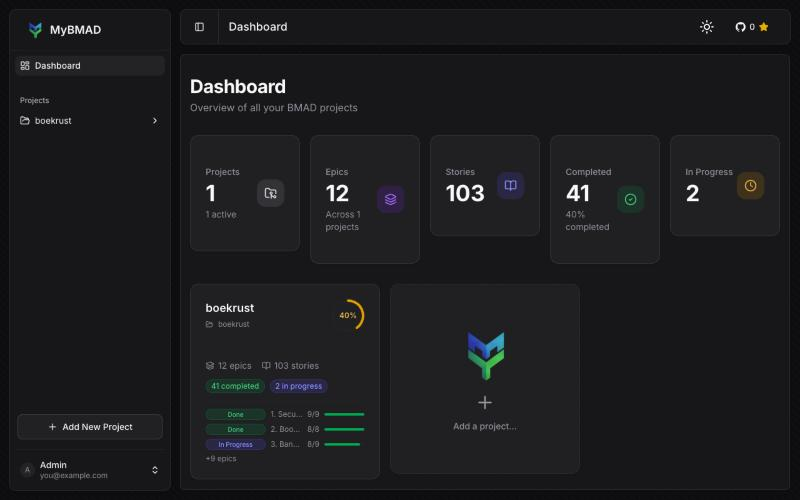
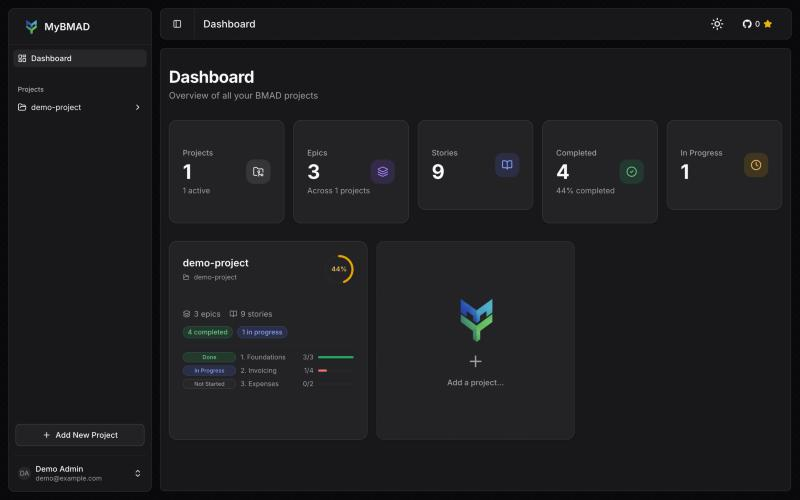
chore: release 0.2.0 and refresh docs and screenshots
- Bump version to 0.2.0 and add the changelog entry since 0.1.0
- Point repository links and the stars button to jsprhzn/my-bmad
- Refresh the agents, stories and dashboard screenshots and add
  the documentation screenshots to the README
- Update the getting started guide and contribution docs

diff --git a/src/components/layout/app-header.tsx b/src/components/layout/app-header.tsx
@@ -87,11 +87,11 @@ export function AppHeader() {
       </nav>
       <AnimatedThemeToggler className="ml-auto rounded-full p-2 hover:bg-accent shrink-0" />
       <GitHubStarsButton
-        username="Huzen-Software"
+        username="jsprhzn"
         repo="my-bmad"
         variant="ghost"
         size="sm"
-        onClick={() => window.open("https://github.com/Huzen-Software/my-bmad", "_blank", "noopener,noreferrer")}
+        onClick={() => window.open("https://github.com/jsprhzn/my-bmad", "_blank", "noopener,noreferrer")}
       />
       <ScrollProgress />
     </header>

diff --git a/CHANGELOG.md b/CHANGELOG.md
@@ -9,8 +9,56 @@ Versions follow [Semantic Versioning](https://semver.org/spec/v2.0.0.html).
 
 ## [Unreleased]
 
+---
+
+## [0.2.0] — 2026-10-30
+
 ### Added
-- Open-source release preparation (LICENSE, CONTRIBUTING, SECURITY, README)
+- Autorunner
+  - Project-wide autorunner that works through the story queue, with a one-at-a-time setting
+  - Queue above the stories board, showing each queued story's stages, models and log tail
+  - Choose the Claude account per project
+  - Pace autorunner starts by the plan quota that Claude reports
+  - Keep the computer awake while the autorunner runs
+  - Compact panel with Pause all, Stop after current and Stop now
+  - List of finished autoruns with start, end, duration, tokens and cost
+  - Optionally split large stories into subtasks
+  - Retry failed builds first and explain the autorunner's choices
+- Agent runs
+  - Start dev and review runs per story with Claude Code, and plan stories up to ready-for-dev
+  - Choose the skill or BMAD agent and the model per action
+  - Offer only the actions that fit a story's status
+  - Run cards with start, duration, model and cost, with pause and stop per run
+  - Run context sheet with story artifacts and diffs
+  - Changed files and readable diffs per run
+  - Time-stamped run stream with a status dot per log line, and a full log dialog
+  - Session and week limits shown at the top right of the agents page
+  - Refuse to start a story whose spec is split into subtasks
+- Stories
+  - Stories board, table and sidebar with agent views
+  - Recommended model per story
+  - Subtasks nested under their parent, with a done count
+  - Show the stories that wait on each story
+- Documentation
+  - Documentation tab with open-as-HTML buttons for specs
+  - `.html` files render as pages in the library
+  - Linked markdown specs open inside the app
+- Kanban board view for epics with a side panel
+- Support for alphanumeric epic IDs, chunked epic directories and BMAD V1 layouts
+- Admin metrics and error logging
+
+### Changed
+- Interface translated to English (login, errors, labels, run messages and documentation page)
+- Prisma migrations run automatically when the container starts
+- User roles are enforced at database level
+- Admin panel access is set by `SUPER_ADMIN_EMAIL`
+- Dashboard shows split stories as split, without run actions
+- Loading states are announced to assistive technology
+
+### Fixed
+- Authorization and input hardening
+- Block new GitHub OAuth accounts when registration is closed
+- Cache revalidation route hardening and ordering
 
 ---
 
@@ -34,5 +82,6 @@ Initial public release.
 
 ---
 
-[Unreleased]: https://github.com/Huzen-Software/my-bmad/compare/v0.1.0...HEAD
-[0.1.0]: https://github.com/Huzen-Software/my-bmad/releases/tag/v0.1.0
+[Unreleased]: https://github.com/jsprhzn/my-bmad/compare/v0.2.0...HEAD
+[0.2.0]: https://github.com/jsprhzn/my-bmad/compare/v0.1.0...v0.2.0
+[0.1.0]: https://github.com/jsprhzn/my-bmad/releases/tag/v0.1.0

diff --git a/README.md b/README.md
@@ -66,6 +66,10 @@ story, and let an autorunner work through the backlog. The screenshots below are
 
 ![Dashboard with progress per epic](docs/fork-dashboard-dark.jpg)
 
+![Documentation index per epic](docs/documentation-overview-dark.jpg)
+
+![Documentation specs grouped by epic](docs/documentation-specs-dark.jpg)
+
 ---
 
 <img width="1720" alt="Screenshot 1" src="./docs/screen1.png" />
@@ -98,7 +102,7 @@ story, and let an autorunner work through the backlog. The screenshots below are
 > Full guide with all environment variables explained: **[docs/GETTING_STARTED.md](./docs/GETTING_STARTED.md)**
 
 ```bash
-git clone https://github.com/Huzen-Software/my-bmad.git
+git clone https://github.com/jsprhzn/my-bmad.git
 cd my-bmad
 pnpm install
 

diff --git a/SECURITY.md b/SECURITY.md
@@ -19,7 +19,7 @@ If you discover a security vulnerability, please report it responsibly:
 
 ### Option 1 — GitHub Security Advisories (Preferred)
 
-Use [GitHub's private vulnerability reporting](https://github.com/Huzen-Software/my-bmad/security/advisories/new) to report the issue confidentially.
+Use [GitHub's private vulnerability reporting](https://github.com/jsprhzn/my-bmad/security/advisories/new) to report the issue confidentially.
 
 ### Option 2 — Direct Contact
 

diff --git a/CONTRIBUTING.md b/CONTRIBUTING.md
@@ -24,7 +24,7 @@ This project follows a [Code of Conduct](./CODE_OF_CONDUCT.md). By participating
 
 ## How to Report a Bug
 
-1. Check the [existing issues](https://github.com/Huzen-Software/my-bmad/issues) to avoid duplicates
+1. Check the [existing issues](https://github.com/jsprhzn/my-bmad/issues) to avoid duplicates
 2. Open a new issue using the **Bug Report** template
 3. Include: steps to reproduce, expected behavior, actual behavior, environment details
 

diff --git a/docs/GETTING_STARTED.md b/docs/GETTING_STARTED.md
@@ -13,7 +13,7 @@ Step-by-step guide to run MyBMAD Dashboard locally.
 ## 1. Clone the repository
 
 ```bash
-git clone https://github.com/Huzen-Software/my-bmad.git
+git clone https://github.com/jsprhzn/my-bmad.git
 cd my-bmad
 ```
 
